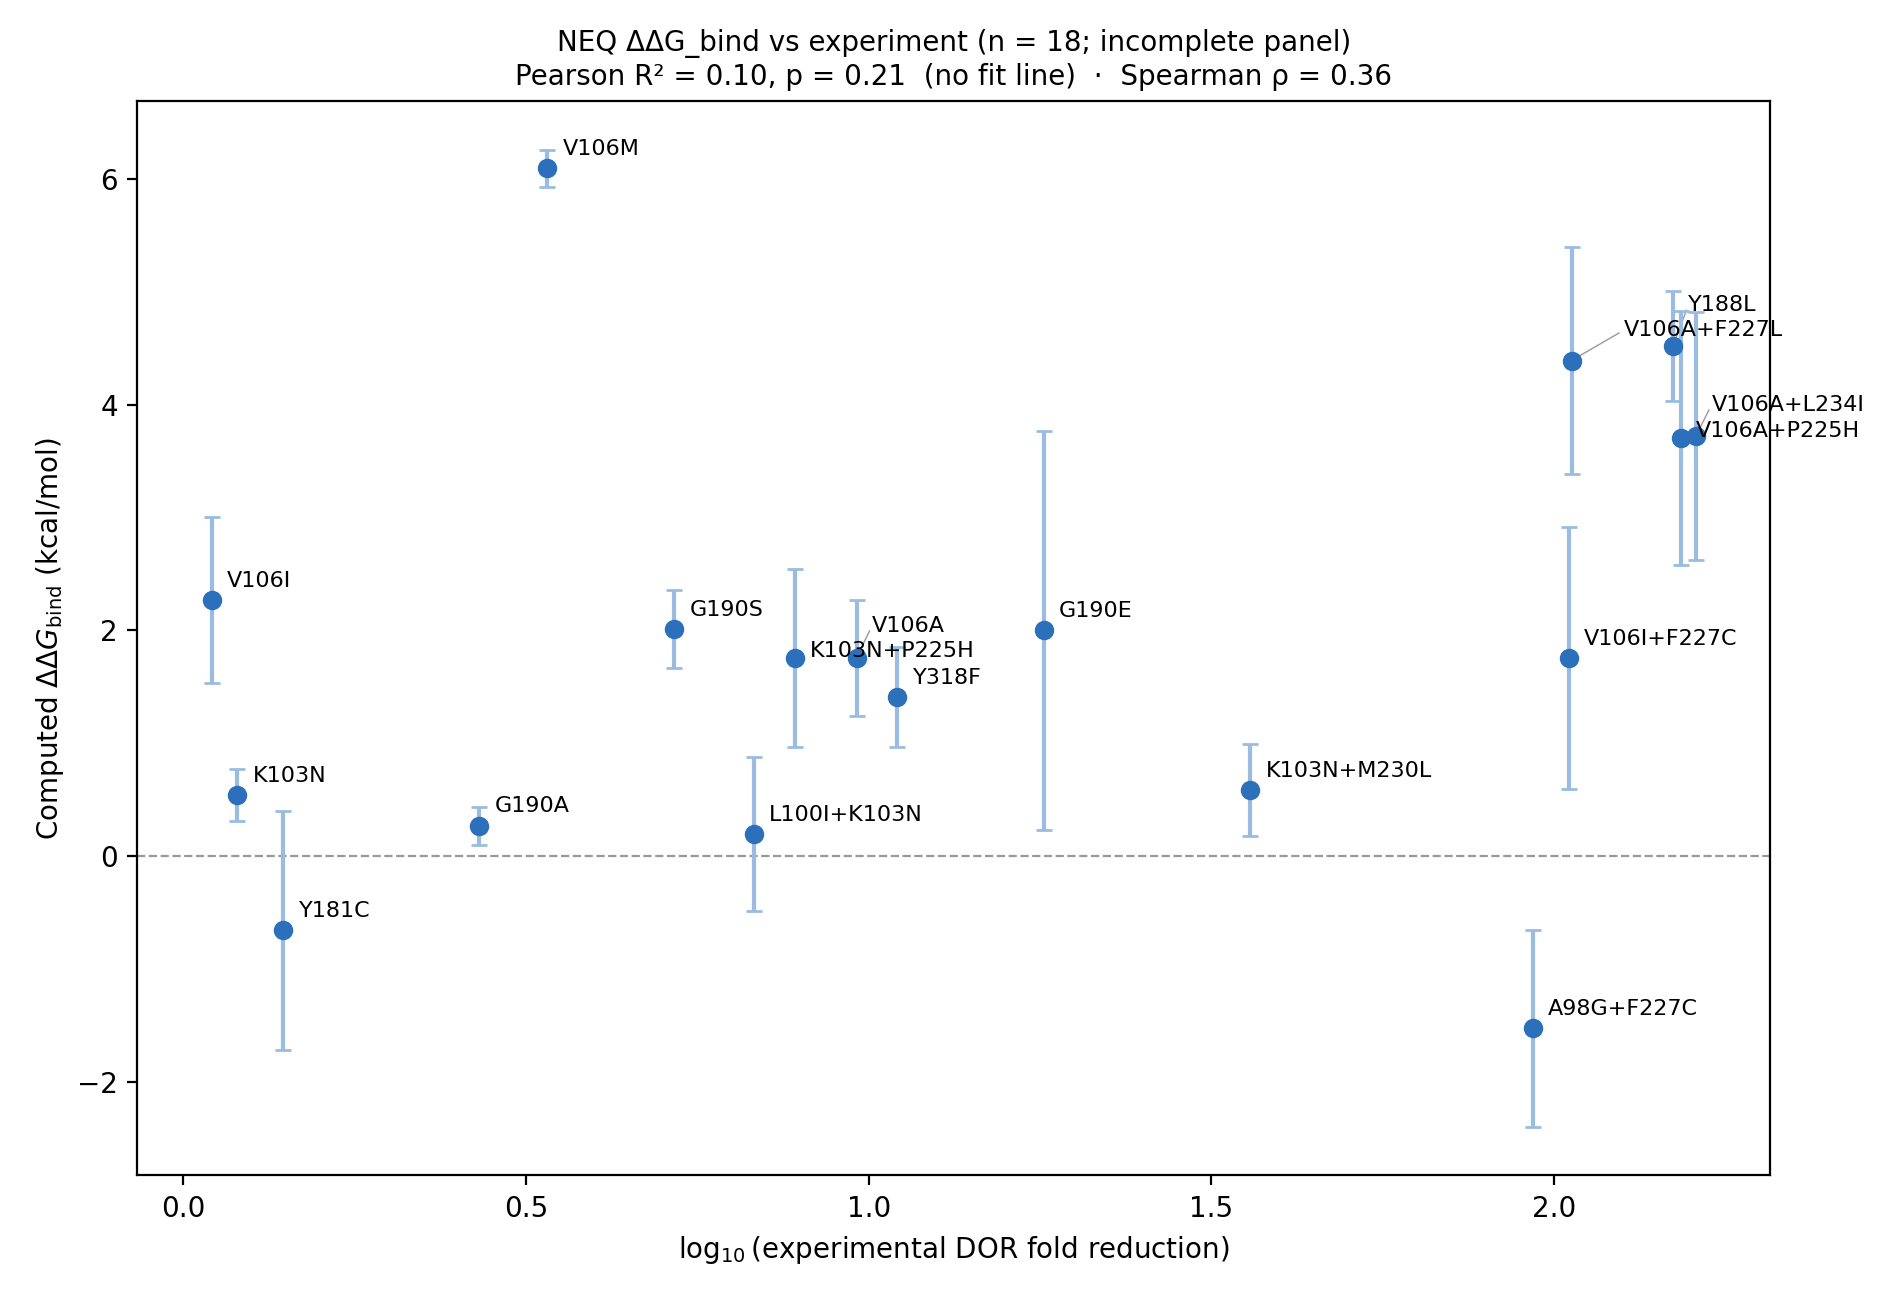
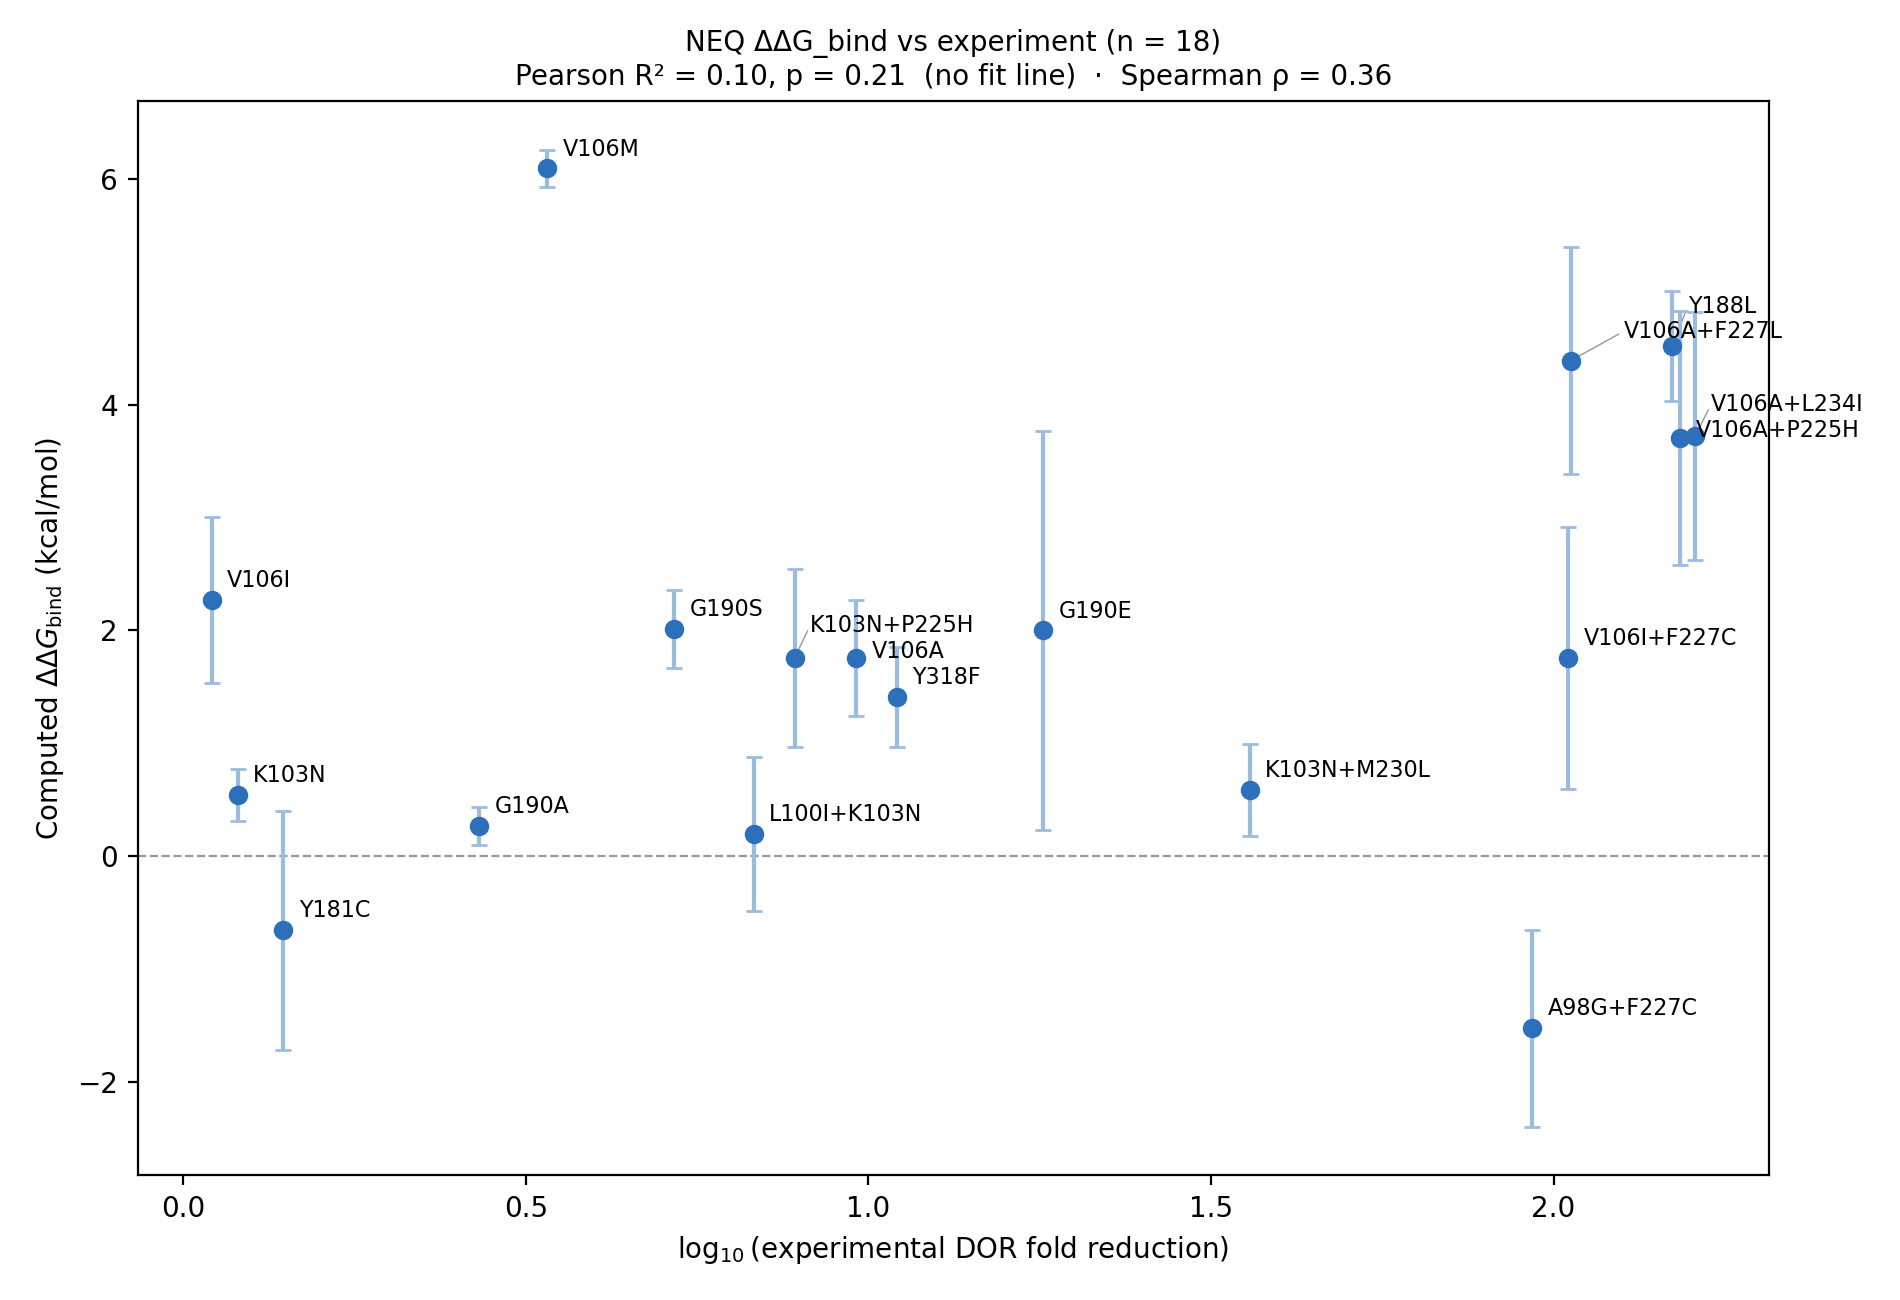
fep_pmx: G190E is the out-of-sample test -- 500 ps is leg-specific, not a charge-leg property
G190E at the same 500 ps protocol gave +2.00 +- 1.77 (sigma_DDG 3.06), no collapse.
The holo/apo-correlation mechanism predicted it: sd(holo-apo hysteresis) is 7.39 for
G190E vs 0.62 for K103N at 500 ps. Per-rep ddG (-0.71/+1.39/+5.32) tracks per-rep
holo-apo hysteresis (+9.13/-1.27/-5.18) monotonically, ~42% transmitted.

G190E still dissipates 16-22 kcal/mol at 500 ps where K103N fell to 9-12 --
Gly->Glu builds a charged carboxylate from dummies, a larger perturbation than
Lys+->Asn0. It never reached the regime where the phases track.

Also fixes the panel title: 'incomplete panel' was hardcoded and is now derived from
MANUSCRIPT_PANEL_N_WITH_FOLD (18 of 19 legs carry an experimental fold). Panel
regenerated with the full target list -- note --replot-only drops two labels and
leaves stray leader lines, so use the full run for the figure.

diff --git a/results/analysis/fep_pmx/_archive/wt_to_K103N_100ps_2026-08-15/README.md b/results/analysis/fep_pmx/_archive/wt_to_K103N_100ps_2026-08-15/README.md
@@ -103,6 +103,47 @@ Also validated: the Rocklin/Hunenberger charge correction came out at ~1e-5
 kcal/mol per replicate, exactly as `charge_correction.py` argues it should -- the
 finite-size terms cancel between holo and apo in matched boxes.
 
+### OUT-OF-SAMPLE TEST (2026-08-17): G190E, and the mechanism predicted it
+
+G190E is the panel's other delta_q = -1 leg. Run at the SAME 500 ps protocol, it did
+**not** reproduce the collapse: **+2.00 +- 1.77**, sigma_DDG = 3.06.
+
+That is a genuine negative result, and an important one: **the 500 ps benefit is
+leg-specific, not a property of charge legs.** Do not generalize it.
+
+The holo/apo-correlation mechanism predicted the failure:
+
+| leg / protocol | sd(holo-apo hysteresis) | sigma_DDG |
+|---|---|---|
+| K103N @ 100 ps | 3.00 | 3.80 |
+| K103N @ 500 ps | **0.62** | **0.40** |
+| G190E @ 500 ps | **7.39** | **3.06** |
+
+G190E's phases do not track at all, so nothing cancels. And the bias propagates
+into the answer monotonically:
+
+| rep | holo-apo hysteresis | ddG |
+|---|---|---|
+| 1 | +9.13 | -0.71 |
+| 2 | -1.27 | +1.39 |
+| 3 | -5.18 | +5.32 |
+
+More apo dissipation relative to holo => higher ddG, with ~42% of the asymmetry
+transmitted. This is residual dissipation bias, not conformational noise.
+
+**Why 500 ps was not enough here.** G190E still dissipates **16-22 kcal/mol** at
+500 ps, where K103N fell to 9-12. Chemistry explains it: Gly->Glu *builds* a charged
+carboxylate out of dummy atoms, a much larger perturbation than Lys+ -> Asn0, which
+shrinks one. G190E never reached the regime where the phases track. The proximate
+culprit is apo rep1 at hysteresis 10.20 vs 21.64 / 21.80 for reps 2-3.
+
+**Predictive rule that now has one confirmation and one counter-case:**
+sd(holo-apo hysteresis) is the quantity to check before spending GPU on a switch-
+length increase. Low (<1) => already cancelling, nothing to gain. High (>5) => the
+phases are decoupled and longer switches may not be enough. Across 14 legs it
+correlates with sigma_DDG at r = 0.61 -- useful for triage, not deterministic
+(V106I_to_V106I_F227C sits at sd 7.80 with sigma_DDG only 1.56).
+
 ### Where 500 ps is worth it (and where it is not)
 
 The `git clean` left these legs with no surviving equil, so a 500 ps re-run means
